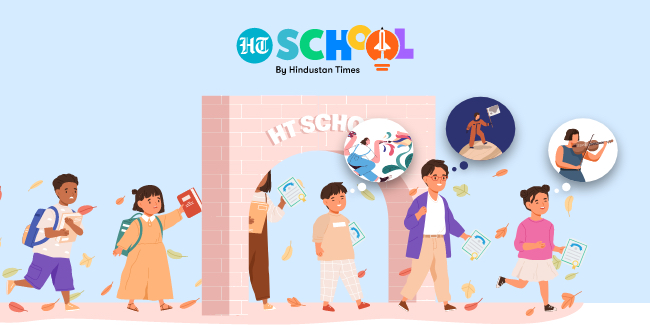
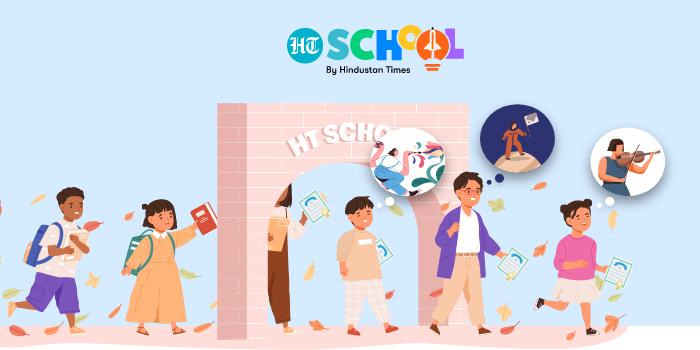
replace lms journey with new design

diff --git a/HTML/bulk-upload.html b/HTML/bulk-upload.html
@@ -1,95 +1,125 @@
 <!DOCTYPE html>
-<html>
+<html lang="en" xmlns="http://www.w3.org/1999/xhtml" xmlns:v="urn:schemas-microsoft-com:vml" xmlns:o="urn:schemas-microsoft-com:office:office">
 <head>
-	<title></title>
-	<meta charset="utf-8">
-	<meta name="viewport" content="width=device-width, initial-scale=1.0">
+    <meta charset="utf-8">
+    <meta name="viewport" content="width=device-width">
+    <meta http-equiv="X-UA-Compatible" content="IE=edge">
+    <meta name="x-apple-disable-message-reformatting"> 
+    <title></title>
 	<style type="text/css">
-		.main{max-width:650px;margin:auto;background-color:#FFF;line-height:1.5;}
+		p:empty,
+		p::empty
+		p:blank,
+		p::blank{display:none;}
+		p br{display:none}
+		.main{}
 		.content{padding:25px 50px;box-sizing:border-box;}
-		img{max-width:100%}
 		p{margin-top:0}
-		.copy{
-			float:left;
-			background-color:#FFF;
-		}
 		.copy .column{float:left;width:50%;margin-bottom:5px;padding:0 45px;box-sizing:border-box;}
 		.copy .column img{width:100%;}
 		@media (max-width:450px){
 			.content{padding:25px 40px;}
 			.copy{margin-bottom:20px;float:none;}
 			.copy .column{width:100%;float:none;padding-left:40px;padding-right:40px;}
+			table tr td{width:100%}
 		}
 	</style>
 </head>
-<body style="margin:0;font-family:system-ui, -apple-system, 'Segoe UI', Roboto, 'Helvetica Neue', Arial, 'Noto Sans', 'Liberation Sans', sans-serif, 'Apple Color Emoji', 'Segoe UI Emoji', 'Segoe UI Symbol', 'Noto Color Emoji';background-color:#eee;">
-	<div class="main">
-		<img src="assets/img/bulkupload/header.jpg">
-		<div class="content">
+<body style="margin:0;font-family:system-ui, -apple-system, 'Segoe UI', Roboto, 'Helvetica Neue', Arial, 'Noto Sans', 'Liberation Sans', sans-serif, 'Apple Color Emoji', 'Segoe UI Emoji', 'Segoe UI Symbol', 'Noto Color Emoji';background-color:#eee;padding:0;mso-line-height-rule: exactly;" width="100%">
+	<center>
+		<div class="main" style="max-width:700px;margin:auto;background-color:#FFF;line-height:1.5;text-align:left;">
+		<img src="https://ht.fortune4.org/wp-content/uploads/emailers/bulkupload/header.jpg" style="width:100%;">
+		<div class="content" style="padding:25px 50px;">
 			<p>Hello "User Name",</p>
 			<p><strong>Greetings from HTSchool, where Imagination meets Education!</strong></p>
 			<p>You have been registered on HTSchool and your account has been created with us for <strong>"Course Name"</strong>.</p>
 			<p style="margin-bottom:0">Please follow the below-mentioned steps to start learning:</p>
 		</div>
-		<div class="copy">
-			<div class="column">
-				<img src="assets/img/bulkupload/point-1.jpg">
-				<p>Visit the HTSchool website:<br>
-				<a href="https://htschool.hindustantimes.com" style="color:#0087FF;text-decoration:none">https://htschool.hindustantimes.com</a>
-				</p>
-			</div>
-			<div class="column">
-				<img src="assets/img/bulkupload/point-2.jpg">
-				<p>Click on <strong>"Login"</strong> and enter your email id. Use this same email id which you are using to read the email now</p>
-			</div>
-			<span style="width:100%;display:block;float:left;"></span>
-			<div class="column">
-				<img src="assets/img/bulkupload/point-3.jpg">
-				<p>After submitting the email id, you will receive an OTP. Please enter the OTP in the boxes and then click on <strong>"Verify OTP"</strong></p>
-			</div>
-			<div class="column">
-				<img src="assets/img/bulkupload/point-4.jpg">
-				<p>Once you verify the OTP, you will be logged in on HTSchool. </p>
-			</div>
-			<span style="width:100%;display:block;float:left;"></span>
-			<div class="column">
-				<img src="assets/img/bulkupload/point-5.jpg">
-				<p>Click on your profile page and you will be able to find your course under <strong>"My Courses"</strong> section</p>
-			</div>
-			<div class="column">
-				<img src="assets/img/bulkupload/point-6.jpg">
-				<p>Click on <strong>"Start Course"</strong> to start your learning today.</p>
-			</div>
-		</div>
-		<div class="content">
-		<p>Happy Learning!<br>
-			<strong>Team HT School</strong>
-			<a href="#!" style="color:#0087FF;text-decoration:none">https://ht.fortune4.org/</a>
-		</p>
+		<table role="presentation" cellspacing="0" cellpadding="0" border="0" width="100%">
+			<tr>
+				<td style="padding:0 45px;" valign="top">
+					<img src="https://ht.fortune4.org/wp-content/uploads/emailers/bulkupload/point-1.jpg" style="height:184px">
+					<p>Visit the HTSchool website:<br>
+					<a href="https://htschool.hindustantimes.com" style="color:#0087FF;text-decoration:none">https://htschool.hindustantimes.com</a>
+					</p>
+				</td>
+				<td style="padding:0 45px;" valign="top">
+					<img src="https://ht.fortune4.org/wp-content/uploads/emailers/bulkupload/point-2.jpg" style="height:184px">
+					<p>Click on <strong>"Login"</strong> and enter your email id. Use this same email id which you are using to read the email now</p>
+				</td>
+			</tr>
+			<tr>
+				<td style="padding:0 45px;" valign="top">
+					<img src="https://ht.fortune4.org/wp-content/uploads/emailers/bulkupload/point-3.jpg" style="height:184px">
+					<p>After submitting the email id, you will receive an OTP. Please enter the OTP in the boxes and then click on <strong>"Verify OTP"</strong></p>
+				</td>
+				<td style="padding:0 45px;" valign="top">
+					<img src="https://ht.fortune4.org/wp-content/uploads/emailers/bulkupload/point-4.jpg" style="height:184px">
+					<p>Once you verify the OTP, you will be logged in on HTSchool. </p>
+				</td>
+			</tr>
+			<tr>
+				<td style="padding:0 45px;" valign="top">
+					<img src="https://ht.fortune4.org/wp-content/uploads/emailers/bulkupload/point-5.jpg" style="height:184px">
+					<p>Click on your profile page and you will be able to find your course under <strong>"My Courses"</strong> section</p>
+				</td>
+				<td style="padding:0 45px;" valign="top">
+					<img src="https://ht.fortune4.org/wp-content/uploads/emailers/bulkupload/point-6.jpg" style="height:184px">
+					<p>Click on <strong>"Start Course"</strong> to start your learning today.</p>
+				</td>
+			</tr>
+		</table>
+		<div class="content" style="padding:25px 50px;">
+		<p style="margin-bottom:0">Happy Learning!</p>
+		<p style="margin-bottom:0"><strong>Team HT School</strong></p>
+		<p style="margin-bottom:0"><a href="#!" style="color:#0087FF;text-decoration:none">https://ht.fortune4.org/</a></p>
 		</div>
 		<div class="footer" style="background-color:#000;color:#FFF;padding:30px;font-size:13px;text-align:center">
-		    <div class="social" style="font-size:20px;margin-bottom:15px;">
-		        <a href="#!" style="color:#FFF;margin-right:10px;text-decoration:none;">
-		            <img src="assets/img/icon-linkedin.svg" />
-		        </a>
-		        <a href="#!" style="color:#FFF;margin-right:10px;text-decoration:none;">
-		            <img src="assets/img/icon-twitter.svg" />
-		        </a>
-		        <a href="#!" style="color:#FFF;margin-right:10px;text-decoration:none;">
-		            <img src="assets/img/icon-facebook.svg" />
-		        </a>
-		        <a href="#!" style="color:#FFF;margin-right:10px;text-decoration:none;">
-		            <img src="assets/img/icon-instagram.svg" />
-		        </a>
+			<table role="presentation" cellspacing="0" cellpadding="0" border="0" width="auto" style="margin:auto;">
+				<tr>
+					<td colspan="4">
+						<table role="presentation" cellspacing="0" cellpadding="0" border="0" width="auto" style="margin:0 auto 10px auto;">
+							<tr>
+								<td style="padding:0 10px">
+									<a href="#!" style="color:#FFF;text-decoration:none;">
+									<img src="https://ht.fortune4.org/wp-content/themes/htschools/assets/images/linkdin.png" /></a>
+								</td>
+								<td style="padding:0 10px">
+									<a href="#!" style="color:#FFF;text-decoration:none;">
+							            <img src="https://ht.fortune4.org/wp-content/themes/htschools/assets/images/twitter.png" /></a>
+								</td>
+								<td style="padding:0 10px">
+									<a href="#!" style="color:#FFF;text-decoration:none;">
+									<img src="https://ht.fortune4.org/wp-content/themes/htschools/assets/images/facebook.png" /></a>
+								</td>
+								<td style="padding:0 10px">
+									<a href="#!" style="color:#FFF;text-decoration:none;">
+									<img src="https://ht.fortune4.org/wp-content/themes/htschools/assets/images/instagram.png" /></a>
+								</td>
+							</tr>
+						</table>
+					</td>
+				</tr>
+				<tr>
+					<td colspan="4"><p style="color:#d5ebff;margin:0 0 10px 0;">Copyright © 2021 HTDSL. All rights reserved.</p></td>
+				</tr>
+				<tr>
+					<td>
+						<a href="#!" style="color:#d5ebff;margin-right:10px;text-decoration:none;">Terms and Conditions</a>
+					</td>
+					<td>
+				        <a href="#!" style="color:#d5ebff;margin-right:10px;text-decoration:none;">Privacy Policy</a>
+					</td>
+					<td>
+				        <a href="#!" style="color:#d5ebff;margin-right:10px;text-decoration:none;">Disclaimer</a>
+					</td>
+					<td>
+				        <a href="#!" style="color:#d5ebff;margin-right:10px;text-decoration:none;">Contact Us</a>
+					</td>
+				</tr>
+			</table>
 		    </div>
-		        <div>
-		            <p style="color:#d5ebff;margin:0 0 10px 0;">Copyright © 2021 HTDSL. All rights reserved.</p>
-		            <a href="#!" style="color:#d5ebff;margin-right:10px;text-decoration:none;">Terms and Conditions</a>
-		            <a href="#!" style="color:#d5ebff;margin-right:10px;text-decoration:none;">Privacy Policy</a>
-		            <a href="#!" style="color:#d5ebff;margin-right:10px;text-decoration:none;">Disclaimer</a>
-		            <a href="#!" style="color:#d5ebff;margin-right:10px;text-decoration:none;">Contact Us</a>
-		        </div>
-		    </div>
-	</div>
+		</div>
+	</center>
 </body>
 </html>

diff --git a/HTML/old-bulk-upload.html b/HTML/old-bulk-upload.html
@@ -1,0 +1,96 @@
+<!DOCTYPE html>
+<html>
+<head>
+	<title></title>
+	<meta charset="utf-8">
+	<meta name="viewport" content="width=device-width, initial-scale=1.0">
+	<meta http-equiv="X-UA-Compatible" content="ie=edge">
+	<style type="text/css">
+		.main{max-width:650px;margin:auto;background-color:#FFF;line-height:1.5;}
+		.content{padding:25px 50px;box-sizing:border-box;}
+		img{max-width:100%}
+		p{margin-top:0}
+		.copy{
+			float:left;
+			background-color:#FFF;
+		}
+		.copy .column{float:left;width:50%;margin-bottom:5px;padding:0 45px;box-sizing:border-box;}
+		.copy .column img{width:100%;}
+		@media (max-width:450px){
+			.content{padding:25px 40px;}
+			.copy{margin-bottom:20px;float:none;}
+			.copy .column{width:100%;float:none;padding-left:40px;padding-right:40px;}
+		}
+	</style>
+</head>
+<body style="margin:0;font-family:system-ui, -apple-system, 'Segoe UI', Roboto, 'Helvetica Neue', Arial, 'Noto Sans', 'Liberation Sans', sans-serif, 'Apple Color Emoji', 'Segoe UI Emoji', 'Segoe UI Symbol', 'Noto Color Emoji';background-color:#eee;">
+	<div class="main">
+		<img src="https://ht.fortune4.org/wp-content/uploads/emailers/bulkupload/header.jpg">
+		<div class="content">
+			<p>Hello "User Name",</p>
+			<p><strong>Greetings from HTSchool, where Imagination meets Education!</strong></p>
+			<p>You have been registered on HTSchool and your account has been created with us for <strong>"Course Name"</strong>.</p>
+			<p style="margin-bottom:0">Please follow the below-mentioned steps to start learning:</p>
+		</div>
+		<div class="copy">
+			<div class="column">
+				<img src="https://ht.fortune4.org/wp-content/uploads/emailers/bulkupload/point-1.jpg">
+				<p>Visit the HTSchool website:<br>
+				<a href="https://htschool.hindustantimes.com" style="color:#0087FF;text-decoration:none">https://htschool.hindustantimes.com</a>
+				</p>
+			</div>
+			<div class="column">
+				<img src="https://ht.fortune4.org/wp-content/uploads/emailers/bulkupload/point-2.jpg">
+				<p>Click on <strong>"Login"</strong> and enter your email id. Use this same email id which you are using to read the email now</p>
+			</div>
+			<span style="width:100%;display:block;float:left;"></span>
+			<div class="column">
+				<img src="https://ht.fortune4.org/wp-content/uploads/emailers/bulkupload/point-3.jpg">
+				<p>After submitting the email id, you will receive an OTP. Please enter the OTP in the boxes and then click on <strong>"Verify OTP"</strong></p>
+			</div>
+			<div class="column">
+				<img src="https://ht.fortune4.org/wp-content/uploads/emailers/bulkupload/point-4.jpg">
+				<p>Once you verify the OTP, you will be logged in on HTSchool. </p>
+			</div>
+			<span style="width:100%;display:block;float:left;"></span>
+			<div class="column">
+				<img src="https://ht.fortune4.org/wp-content/uploads/emailers/bulkupload/point-5.jpg">
+				<p>Click on your profile page and you will be able to find your course under <strong>"My Courses"</strong> section</p>
+			</div>
+			<div class="column">
+				<img src="https://ht.fortune4.org/wp-content/uploads/emailers/bulkupload/point-6.jpg">
+				<p>Click on <strong>"Start Course"</strong> to start your learning today.</p>
+			</div>
+		</div>
+		<div class="content">
+		<p>Happy Learning!<br>
+			<strong>Team HT School</strong><br>
+			<a href="#!" style="color:#0087FF;text-decoration:none">https://ht.fortune4.org/</a>
+		</p>
+		</div>
+		<div class="footer" style="background-color:#000;color:#FFF;padding:30px;font-size:13px;text-align:center">
+		    <div class="social" style="font-size:20px;margin-bottom:15px;">
+		        <a href="https://www.linkedin.com/company/htschool" style="color:#FFF;margin-right:10px;text-decoration:none;">
+		            <img src="https://ht.fortune4.org/wp-content/themes/htschools/assets/images/linkdin.png" />
+		        </a>
+		        <a href="https://twitter.com/htschool1" style="color:#FFF;margin-right:10px;text-decoration:none;">
+		            <img src="https://ht.fortune4.org/wp-content/themes/htschools/assets/images/twitter.png" />
+		        </a>
+		        <a href="https://www.facebook.com/HTSchool-111960910982690/" style="color:#FFF;margin-right:10px;text-decoration:none;">
+		            <img src="https://ht.fortune4.org/wp-content/themes/htschools/assets/images/facebook.png" />
+		        </a>
+		        <a href="https://www.instagram.com/htschool/" style="color:#FFF;margin-right:10px;text-decoration:none;">
+		            <img src="https://ht.fortune4.org/wp-content/themes/htschools/assets/images/instagram.png" />
+		        </a>
+		    </div>
+		        <div>
+		            <p style="color:#d5ebff;margin:0 0 10px 0;">Copyright © 2021 HTDSL. All rights reserved.</p>
+		            <a href="https://htschool.hindustantimes.com/terms-of-use/" style="color:#d5ebff;margin-right:10px;text-decoration:none;">Terms and Conditions</a>
+		            <a href="https://htschool.hindustantimes.com/privacy-policy/" style="color:#d5ebff;margin-right:10px;text-decoration:none;">Privacy Policy</a>
+		            <a href="#!" style="color:#d5ebff;margin-right:10px;text-decoration:none;">Disclaimer</a>
+		            <a href="https://htschool.hindustantimes.com/contact-us/" style="color:#d5ebff;margin-right:10px;text-decoration:none;">Contact Us</a>
+		        </div>
+		    </div>
+	</div>
+</body>
+</html>

diff --git a/code/wp-content/themes/htschools/style.css b/code/wp-content/themes/htschools/style.css
@@ -2082,7 +2082,7 @@ Course Details
   box-shadow: 0px 0 30px rgba(1, 41, 112, 0.08);
   border-bottom: 1px dotted #00000080;
   transition: 0.3s;
-  height: 100%;
+  /*height: 100%;*/
   width: 100%;
   background-color: #fff;
   /*margin-left: 5px;*/
@@ -4471,7 +4471,7 @@ div.nsl-container .nsl-container-buttons{
     transition: all 0.1s ease;
     height: 100%;
     position: relative;
-    background-color: #ffffff;
+    background-color: #F8F8F8;
     width: 150px;
     border: 1px solid #BEBEBE;
     border-radius: 0;
@@ -7598,14 +7598,24 @@ table .course-button .gst{font-size:16px;font-weight:400;color:#999;padding-left
 .course_status .incourse .quiz_questions_content ol+h6{margin-top: 30px !important;}
 .course_status .incourse .quiz_questions_content > div{display:flex;justify-content:space-between;flex-wrap:wrap;}
 .course_status .incourse .quiz_questions_content > div .quiz_pagination_wrapper{margin-left:auto}
-.course_status .incourse .quiz_questions_content .question{display:flex;flex-wrap:wrap;justify-content:space-between;}
-.course_status .incourse .quiz_questions_content .question .question_actions{width:100%;flex:0 0 100%;}
+.course_status .incourse .quiz_questions_content .question{
+  display:flex;flex-wrap:wrap;justify-content:space-between;
+
+  /*New Design*/
+  flex-direction:column;
+}
+.course_status .incourse .quiz_questions_content .question .question_content,
+.course_status .incourse .quiz_questions_content .question .question_list{width:100%;padding:0}
+.course_status .incourse .quiz_questions_content .question .question_list{display:flex;flex-wrap:wrap;justify-content:space-between;}
+.course_status .incourse .quiz_questions_content .question .question_list .question_option{flex:0 0 49.5%;margin:0 0 10px 0}
+
+.course_status .incourse .quiz_questions_content .question .question_actions{width:100%;flex:0 0 100%;margin-bottom:0;border-bottom:none;}
 .course_status .incourse .quiz_questions_content .question .question_content,
 .course_status .incourse .quiz_questions_content .question .question_list{margin-top:0 !important;}
 .course_status .incourse .quiz_questions_content .question_wrapper.loaded .result{}
 .course_status .incourse .question_wrapper{left:136px !important}
 
-.course_status .course_timeline>ul li.open_lesson .vicon-infinite{display:none}
+.course_status .course_timeline>ul li .vicon-infinite{display:none}
 @media (max-width:767px){
   .course_content_content{padding:20px !important}
   .course_status.moveonside .course_timeline{display:block !important}
